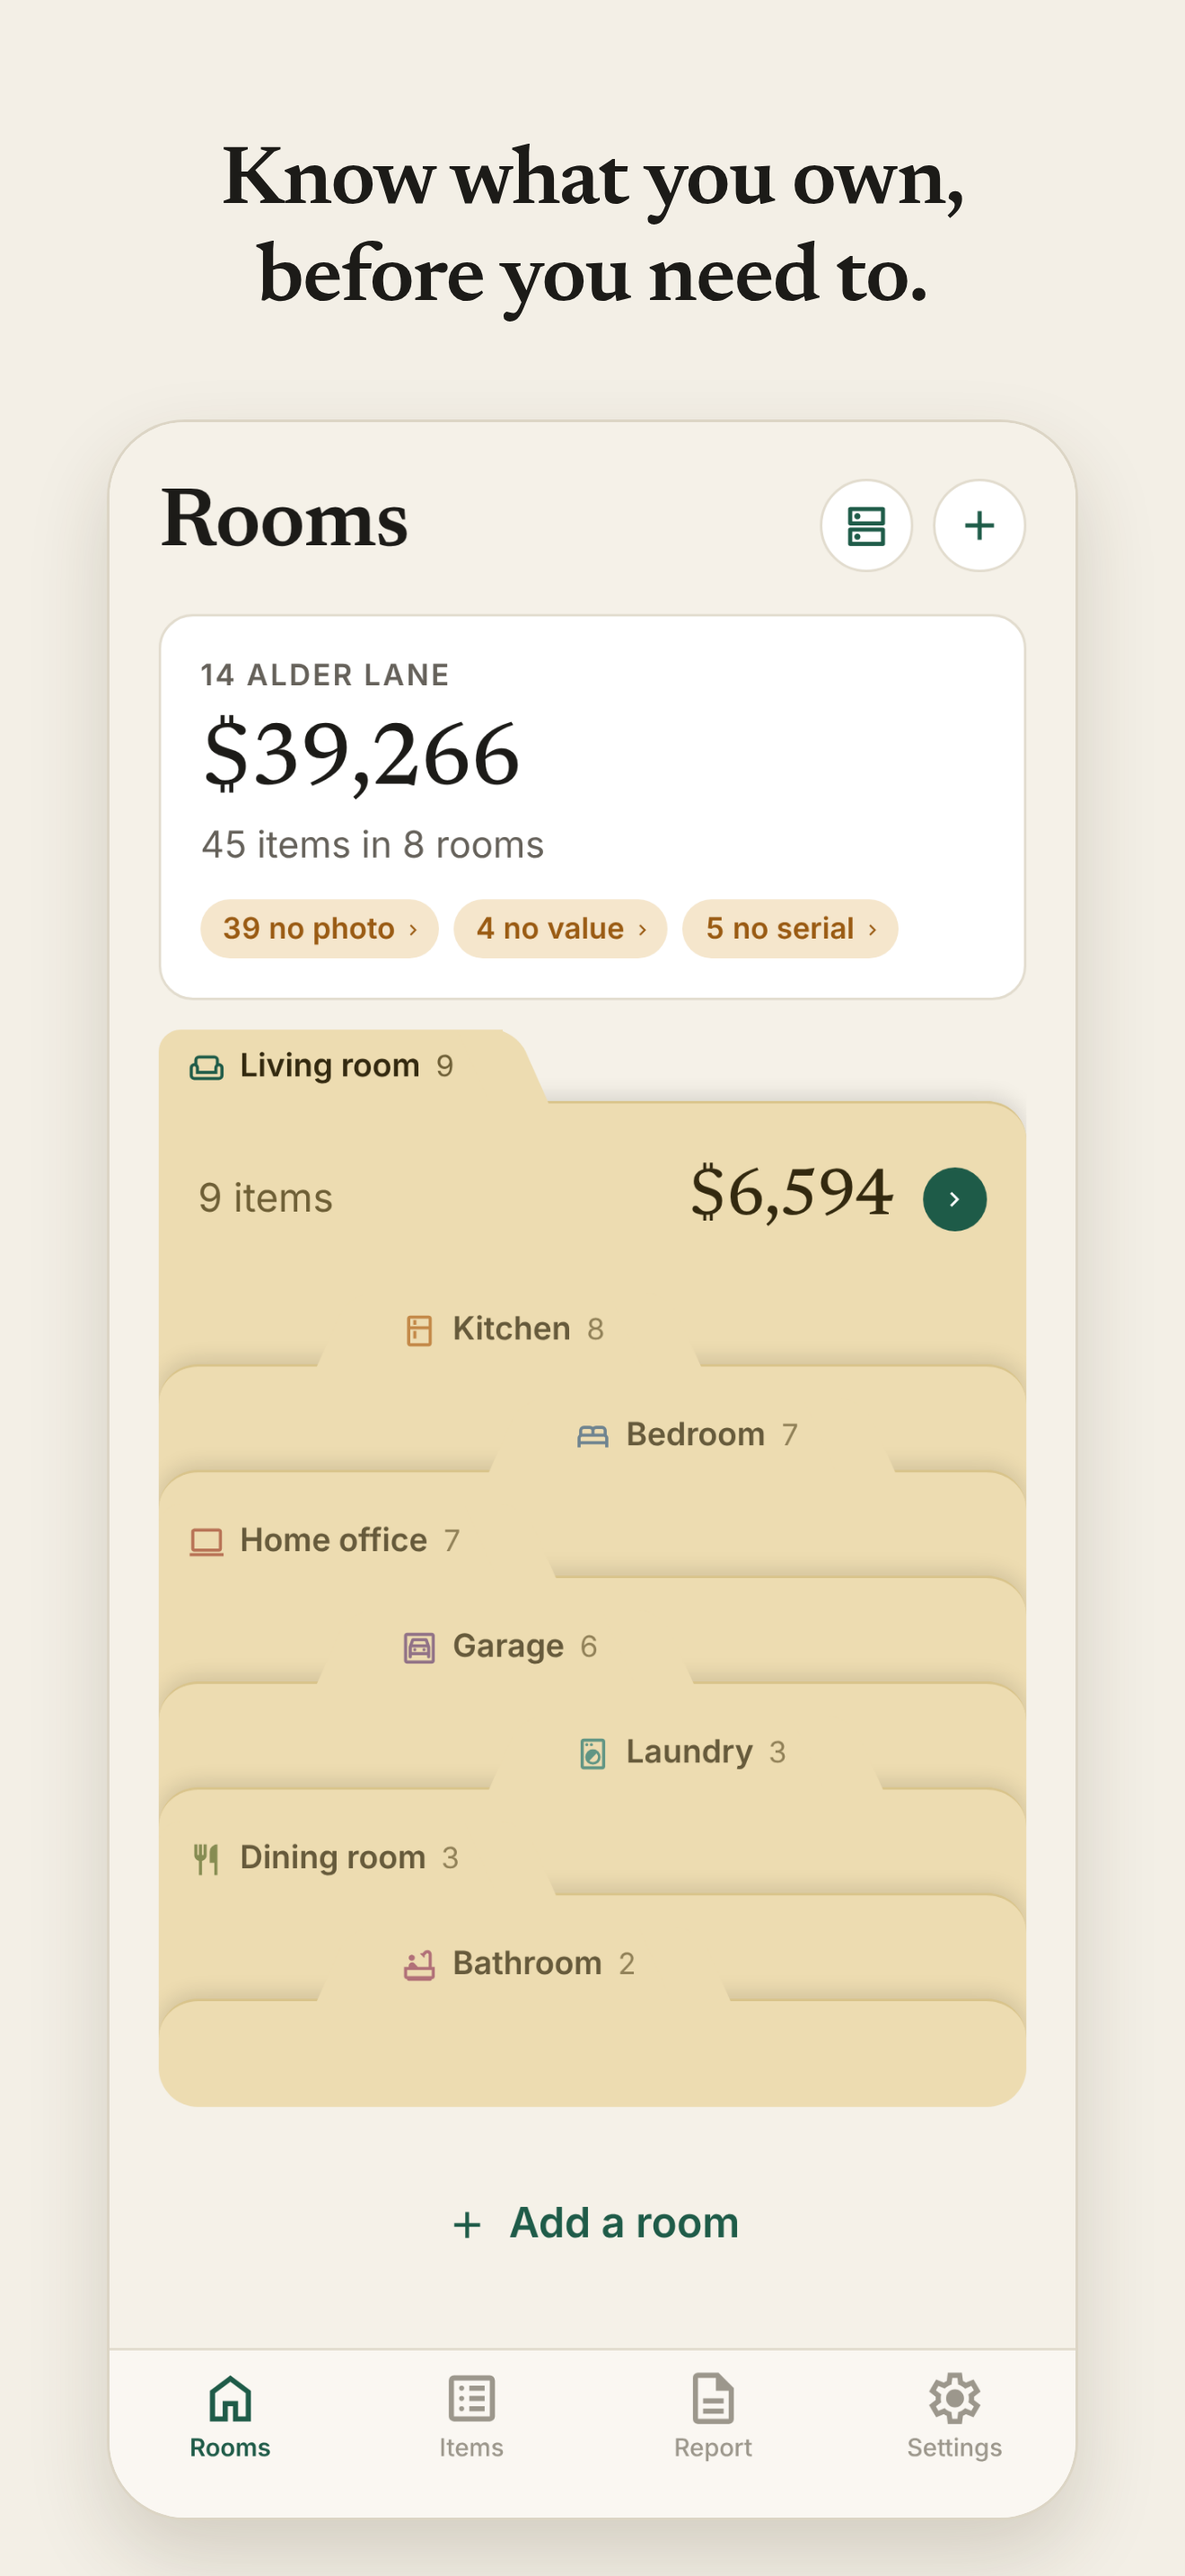
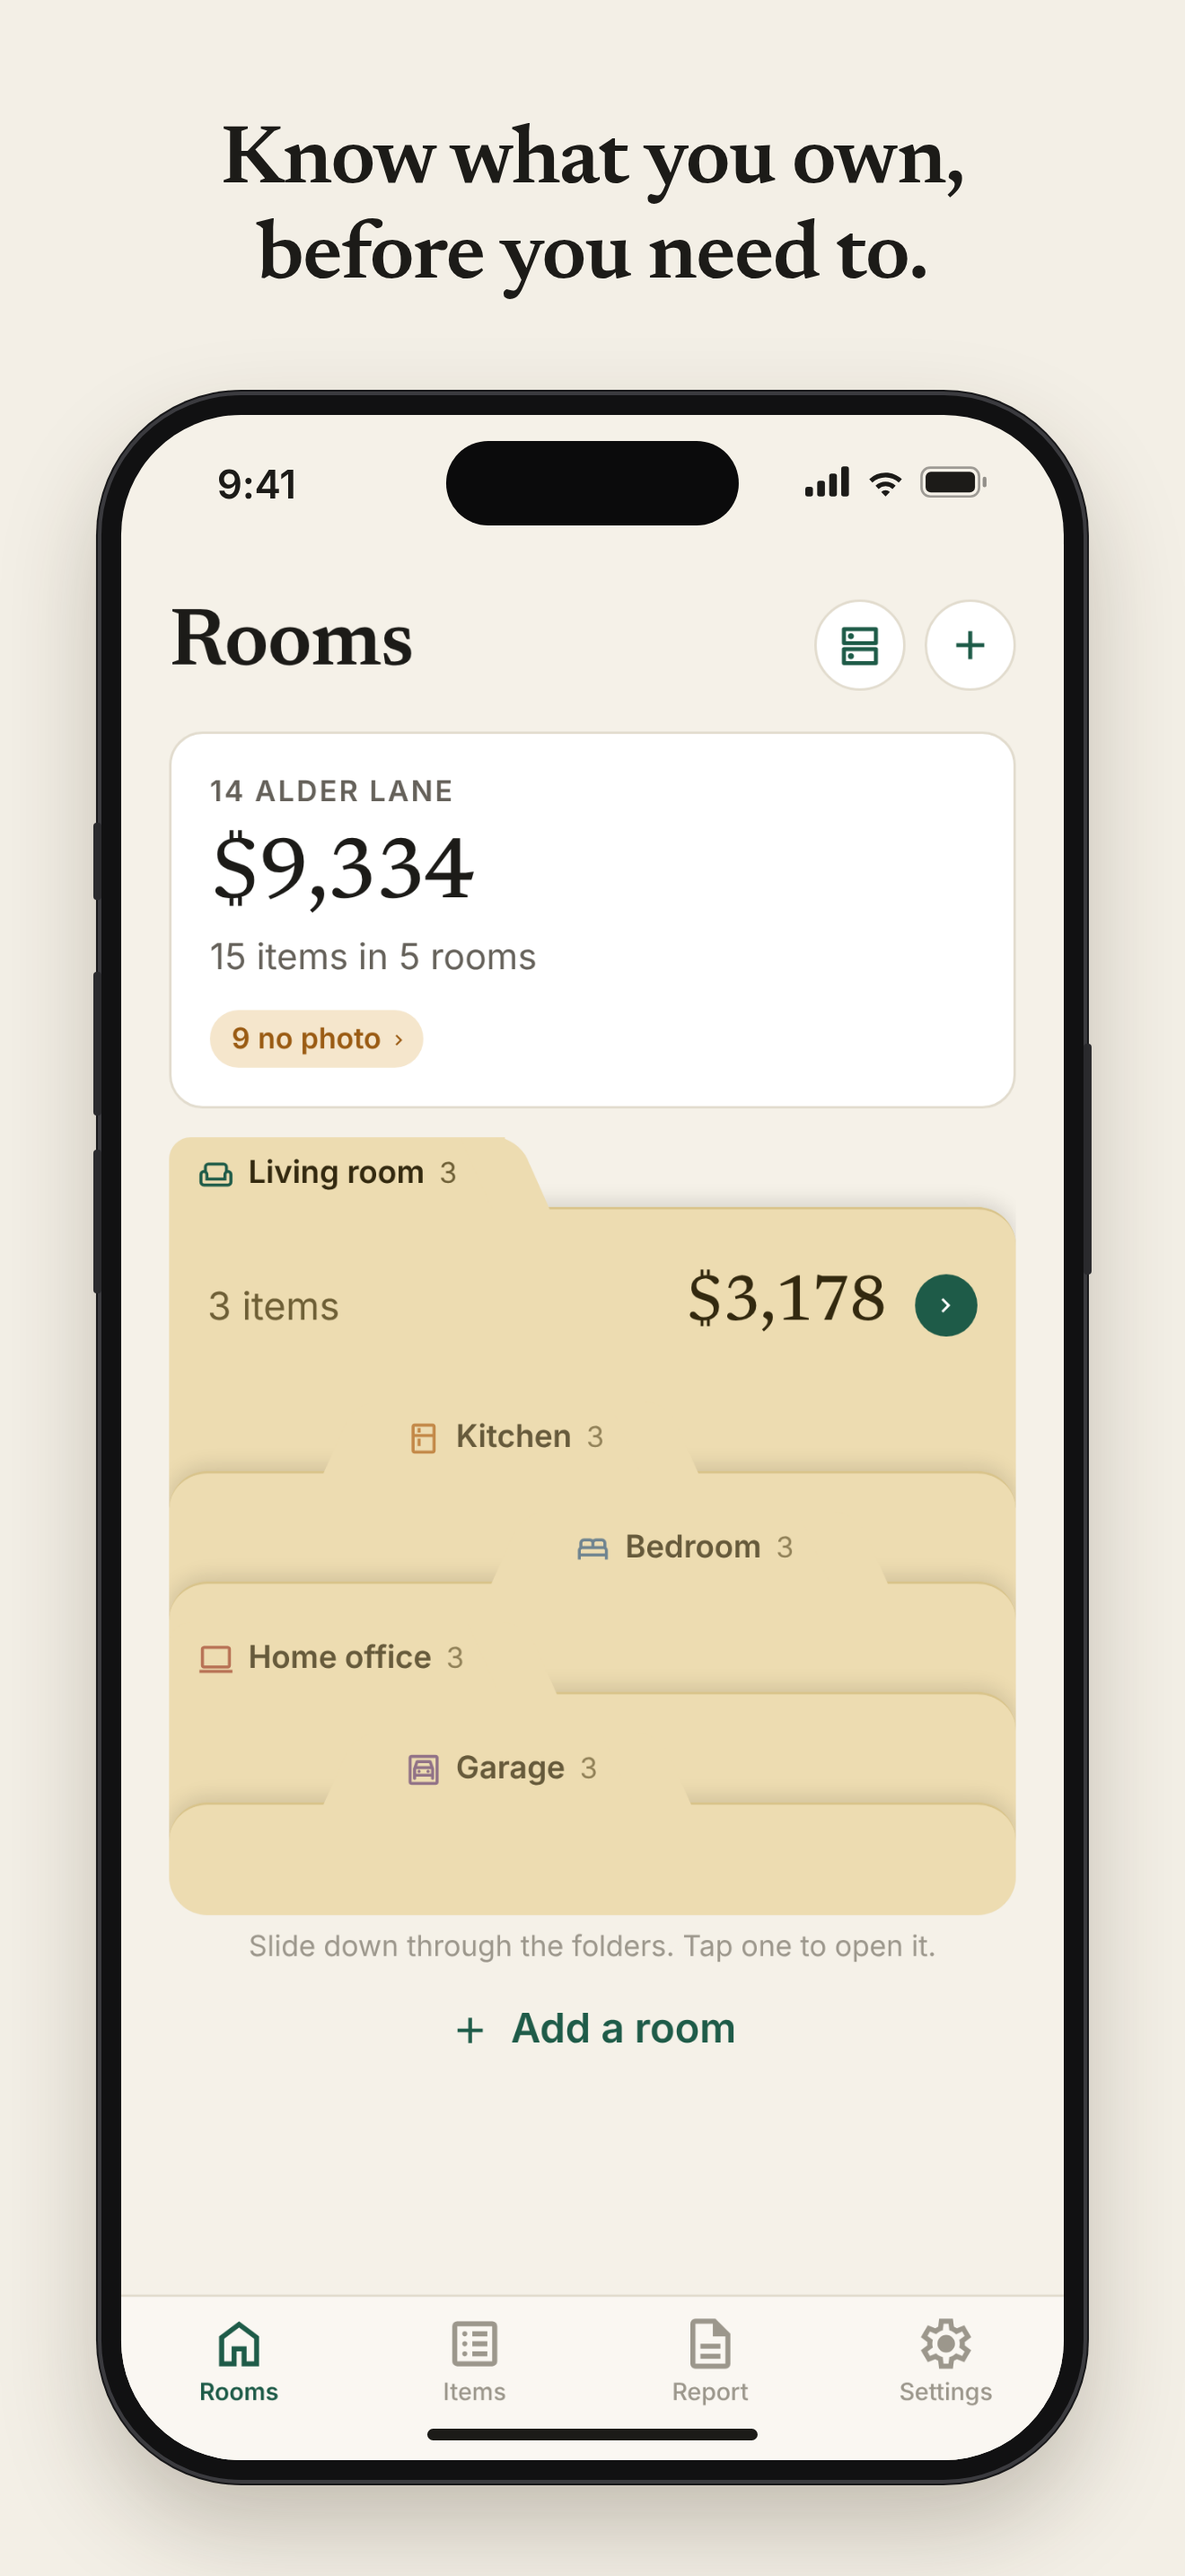
Plainproof: new App Store screenshots in a phone outline, a smaller household, and the report up close
The owner asked for a believable total (about nine thousand dollars), a phone around each screen, a closer look at the report, and no mention of the free limit. The script now fills the app with 15 things in 5 rooms and shows the top of the report's first page as paper. The listing tool also works on a version that sits in a draft submission.

Claude-Session: https://claude.ai/code/session_01P4SSbMCZHFEPKyQsTwSNYm

diff --git a/tools/asc_listing.py b/tools/asc_listing.py
@@ -354,7 +354,8 @@ class Run:
 
     def version(self):
         versions = self.c.get(f"/v1/apps/{self.app}/appStoreVersions", **{"filter[platform]": "IOS", "limit": 20})["data"]
-        open_states = ("PREPARE_FOR_SUBMISSION", "DEVELOPER_REJECTED", "REJECTED", "METADATA_REJECTED", "INVALID_BINARY")
+        # READY_FOR_REVIEW: added to a draft submission that has not been sent; still the owner's to change.
+        open_states = ("PREPARE_FOR_SUBMISSION", "READY_FOR_REVIEW", "DEVELOPER_REJECTED", "REJECTED", "METADATA_REJECTED", "INVALID_BINARY")
         ver = next(v for v in versions if (v["attributes"].get("appVersionState") or v["attributes"].get("appStoreState")) in open_states)
         self.ver = ver["id"]
         a = ver["attributes"]

diff --git a/apps/plainproof/NOTES.md b/apps/plainproof/NOTES.md
@@ -82,7 +82,7 @@ What the app needs from App Store Connect, and who does it. The Paid Apps agreem
 5. **The listing.** Done 2026-11-12 by `tools/asc_listing.py` (Actions > "Store listing"; `plan` looks, `apply` writes, and running it again changes only what differs): subtitle, privacy link, categories (Productivity, Lifestyle), the age-rating answers (4+), the description, keywords, promotional text, support link, copyright, the five screenshots, the notes for App Review, the app's price (free) and where it is sold. **The EU is left out**, as the owner chose for the studio's first game, because selling there needs a trader declaration under the Digital Services Act; `leave_out_eu` in the listing turns that off.
 6. **Left for a person, because Apple has no API for it or it is personal:** the App Privacy answer ("Data Not Collected"), picking the purchase on the version's page, the contact person for App Review (a name, a phone number and an email address: never in this repository), and Submit for Review.
 
-**The screenshots** (`store/plainproof/screenshots/`, made by `node e2e/store-shots.cjs` after a web export): five screens of the app with the sample home, each under one short line, at 1320 x 2868. They are drawn by the web build, which runs the same screens from the same code; the note about the web preview is hidden and the report button carries the iPhone's words. The sample home in them has 45 items, which is more than the free version holds, so the last picture says in so many words what is free and what Pro adds. Run the script again whenever a screen in them changes, then "Store listing" with `apply`.
+**The screenshots** (`store/plainproof/screenshots/`, made by `node e2e/store-shots.cjs` after a web export): four screens of the app and the report itself, each under one short line, at 1320 x 2868. The script fills the app by hand with a small household the owner asked for (2026-11-12): 15 things in 5 rooms worth $9,334, a believable figure where the first set's $39,266 was not. The four screens sit inside a plain phone outline with a status bar, so they read as a phone in the hand; the second picture is the top of the report's first page as paper, large enough to read, because a clean report is what the app is for. Nothing in them mentions the free limit or Pro (the owner: people find that out in the app; the description says it in full), and the pictures are taken with Pro on so the line about the free version is not in them. They are drawn by the web build, which runs the same screens from the same code. Run the script again whenever a screen in them changes, then "Store listing" with `apply`.
 
 ## How places are kept
 
